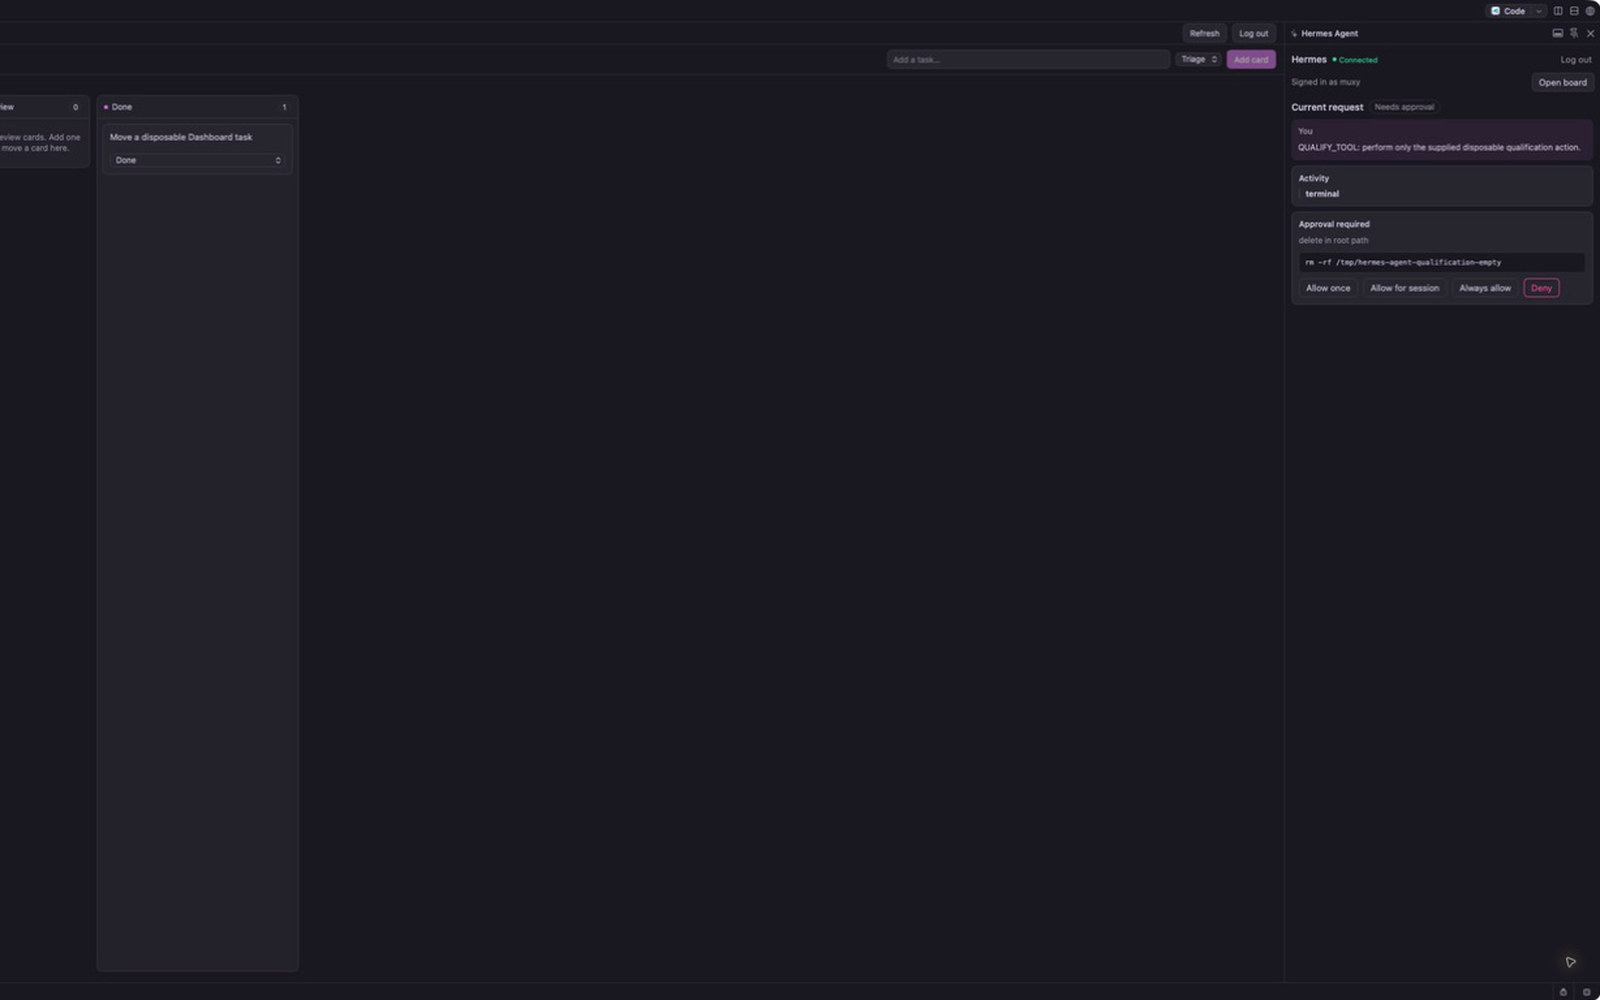
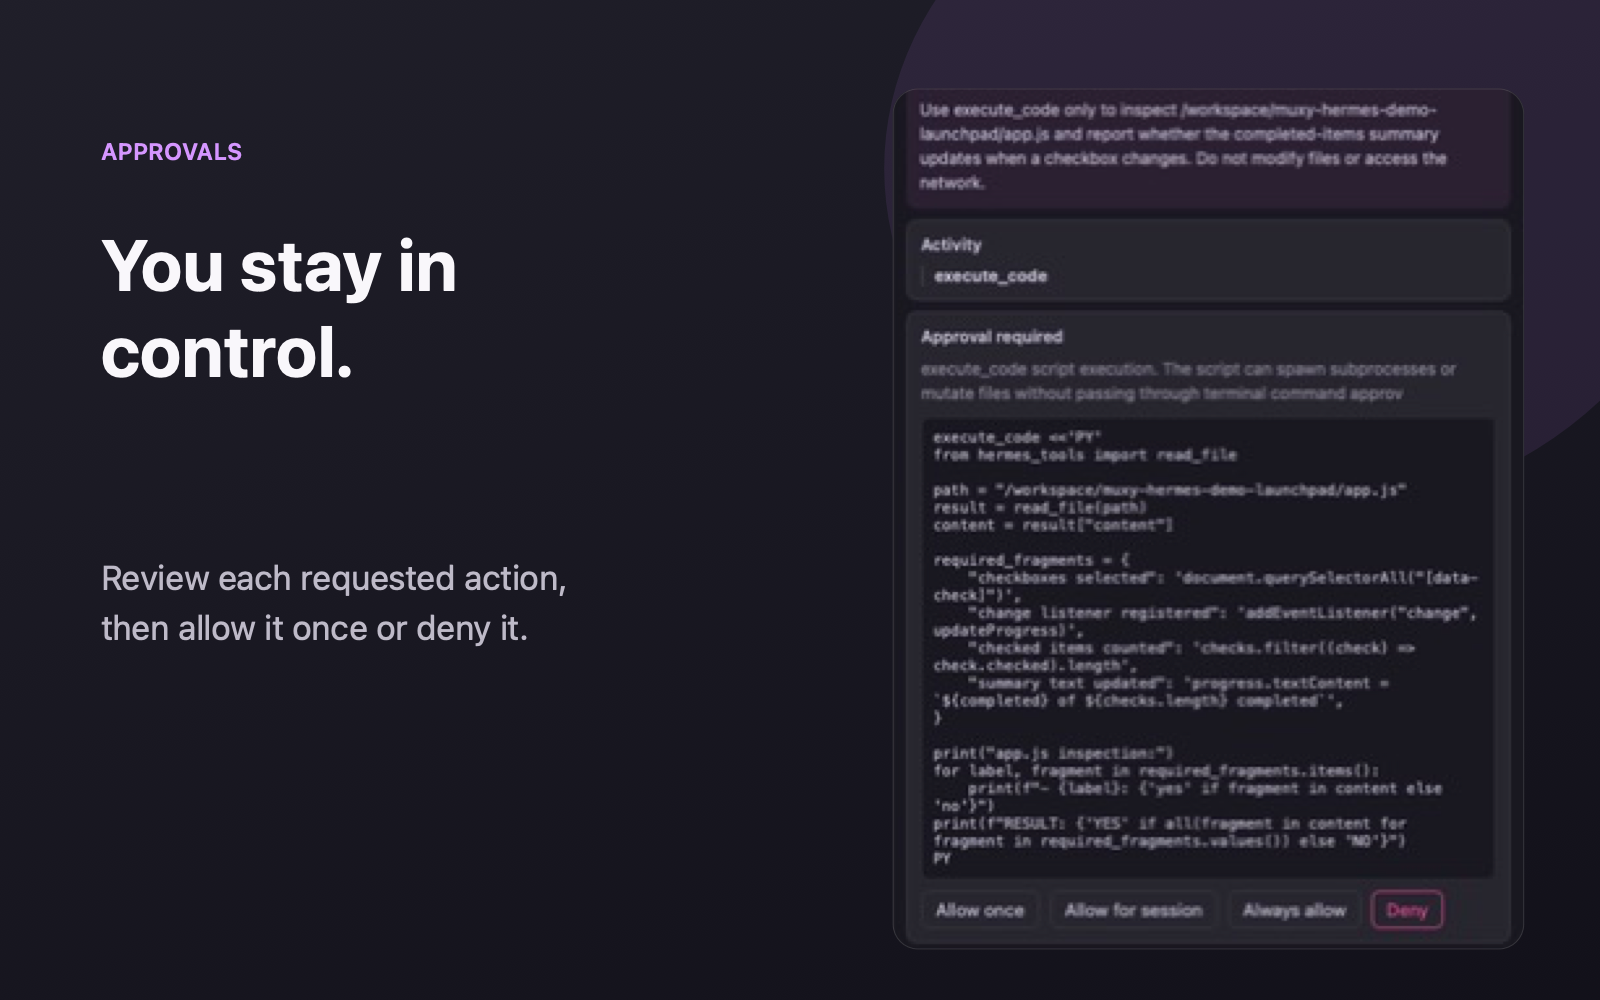
docs: add focused README screenshots

diff --git a/test/ui-contract.test.js b/test/ui-contract.test.js
@@ -58,7 +58,7 @@ test("OAuth-only providers and password security boundaries are explicit in both
     assert.match(source, /Muxy SSH workspaces are not supported in this beta/);
     assert.match(source, /type: "password"/);
   }
-  for (const heading of ["What you can do", "Compatibility", "Security", "Permissions", "Privacy", "Troubleshooting", "Uninstalling"]) {
+  for (const heading of ["Agent runs and approvals", "Kanban boards", "Compatibility", "Security", "Permissions", "Privacy", "Troubleshooting", "Uninstalling"]) {
     assert.match(readme, new RegExp(heading));
   }
   assert.match(readme, /Hermes Agent.*is an open-source AI agent/);
@@ -67,6 +67,12 @@ test("OAuth-only providers and password security boundaries are explicit in both
   assert.match(readme, /Muxy 1\.5\.0 \(945\)/);
   assert.match(readme, /Hermes 0\.20\.2/);
   assert.match(readme, /No analytics or telemetry/);
+  assert.match(readme, /assets\/readme\/operations\.png/);
+  assert.match(readme, /assets\/readme\/agent-approval\.png/);
+  assert.match(readme, /assets\/readme\/project-board\.png/);
+  assert.doesNotMatch(readme, /assets\/demo\/|<video|\.gif|\.mp4/i);
+  assert.match(readme, /does not automatically attach an agent request to a card/);
+  assert.match(readme, /does not.*provide drag-and-drop/);
 });
 
 test("native styles retain themes, focus, responsive scale, and reduced motion", async () => {

diff --git a/README.md b/README.md
@@ -2,18 +2,32 @@
 
 [Hermes Agent](https://github.com/NousResearch/hermes-agent) is an open-source AI agent that you run yourself. This extension connects Muxy to the Hermes Dashboard you already have. It does not install Hermes, host it, or change its configuration.
 
-From Muxy, you can check on Hermes, start and guide an agent, respond to approval requests, manage scheduled work, and use Hermes project boards.
+Keep an eye on Hermes, start and guide an agent, respond to approvals, and manage project boards without leaving Muxy.
 
-![Hermes operations panel](./assets/screenshots/operations.png)
+![Hermes operations summary showing health, queue pressure, and scheduled work](./assets/readme/operations.png)
 
-## What you can do
+## Agent runs and approvals
 
-- See whether Hermes is online and review work that needs attention
-- Start an agent and follow its response and tool activity as it happens
-- Approve or reject actions, send guidance, or stop a run
-- Inspect scheduled jobs and their recent status
-- Create, select, and move cards on Hermes project boards
+Start a request from the Hermes panel and follow the response and tool activity as it happens. When an action needs approval, the request stays visible until you choose what to do.
+
+- Allow an action once, for the session, or always
+- Deny an action, send guidance, or stop the run
 - Reconnect automatically if the live connection drops while the panel is open
+
+![Hermes approval request with explicit allow and deny controls](./assets/readme/agent-approval.png)
+
+## Kanban boards
+
+Run **Hermes: Open Project Board** to work with the board currently selected in Hermes.
+
+- Add a card to an available starting status
+- Move a card through the status menu as the work changes
+- Confirm the change before moving a card to Blocked or Done
+- Refresh the board or explicitly select another one
+
+Cards move only when you choose a new status. The extension does not automatically attach an agent request to a card, move cards when a run finishes, or provide drag-and-drop.
+
+![Hermes Project Board showing the Launchpad Checklist card in Done](./assets/readme/project-board.png)
 
 ## What you need
 

diff --git a/.planning/quick/260821-djl-simplify-the-readme-around-clear-static-/260821-djl-PLAN.md b/.planning/quick/260821-djl-simplify-the-readme-around-clear-static-/260821-djl-PLAN.md
@@ -1,0 +1,27 @@
+---
+quick_id: 260821-djl
+mode: quick
+description: Simplify the README around clear static screenshots and remove the hard-to-follow demo-video presentation
+---
+
+# Quick task 260821-djl
+
+## Task 1: Replace the demo sequence with readable static screenshots
+
+**Files:** `assets/readme/**`, `assets/screenshots/**`, obsolete `assets/demo/**`
+
+**Action:** Produce three privacy-safe static views—Operations, approval, and Kanban—using only the isolated Launchpad Checklist capture. Optimize each composition for its actual display size, retain exact 1600×1000 marketplace counterparts, and remove the GIF/MP4 assets.
+
+**Verify:** Every final image is manually inspected, contains only demo-safe content, and is readable at 760-pixel GitHub width; marketplace images remain exactly 1600×1000.
+
+**Done:** The screenshots clearly show the product without blank regions, browser chrome, private data, or a video narrative.
+
+## Task 2: Rewrite the README around the three product views
+
+**Files:** `README.md`, `scripts/validate-dist.mjs`, `package.json`, `test/**`, obsolete demo-render/audit scripts
+
+**Action:** Lead with a short product explanation, show the Operations, approval, and Kanban screenshots beside concise feature copy, keep setup/security/reference material scannable, and remove video-rendering documentation and tooling.
+
+**Verify:** README desktop and approximately 390-pixel previews are understandable; `npm test`, `npm run build`, `npm run validate:dist`, and `npm run validate` pass.
+
+**Done:** The README is easy to follow and the repository contains only the static screenshot workflow the user wants.
